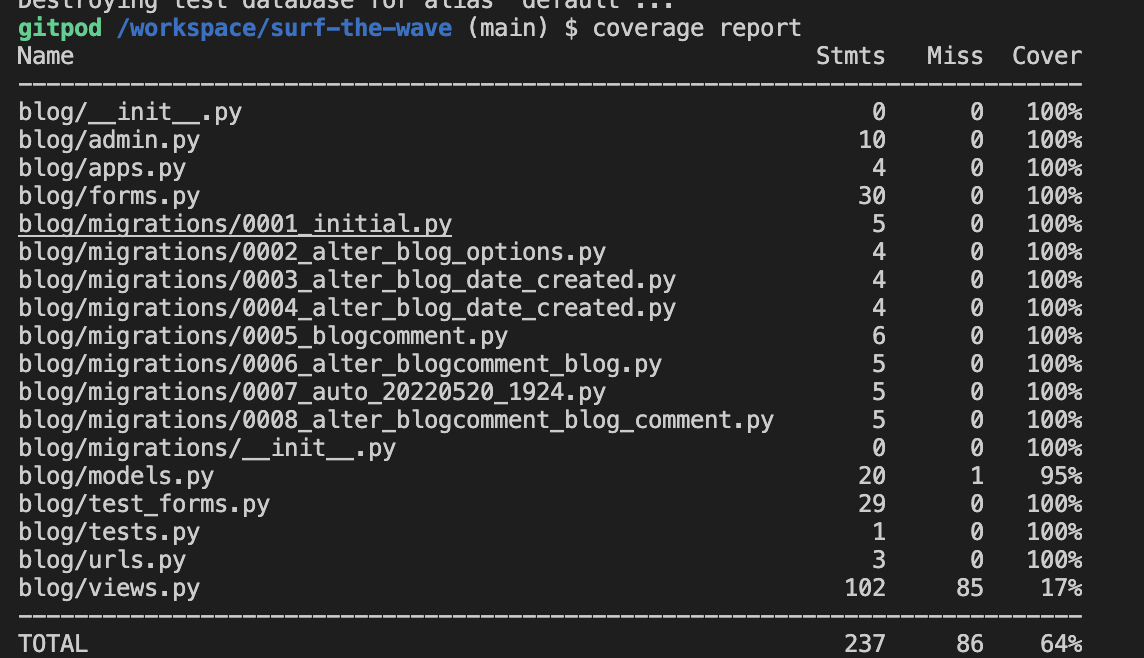
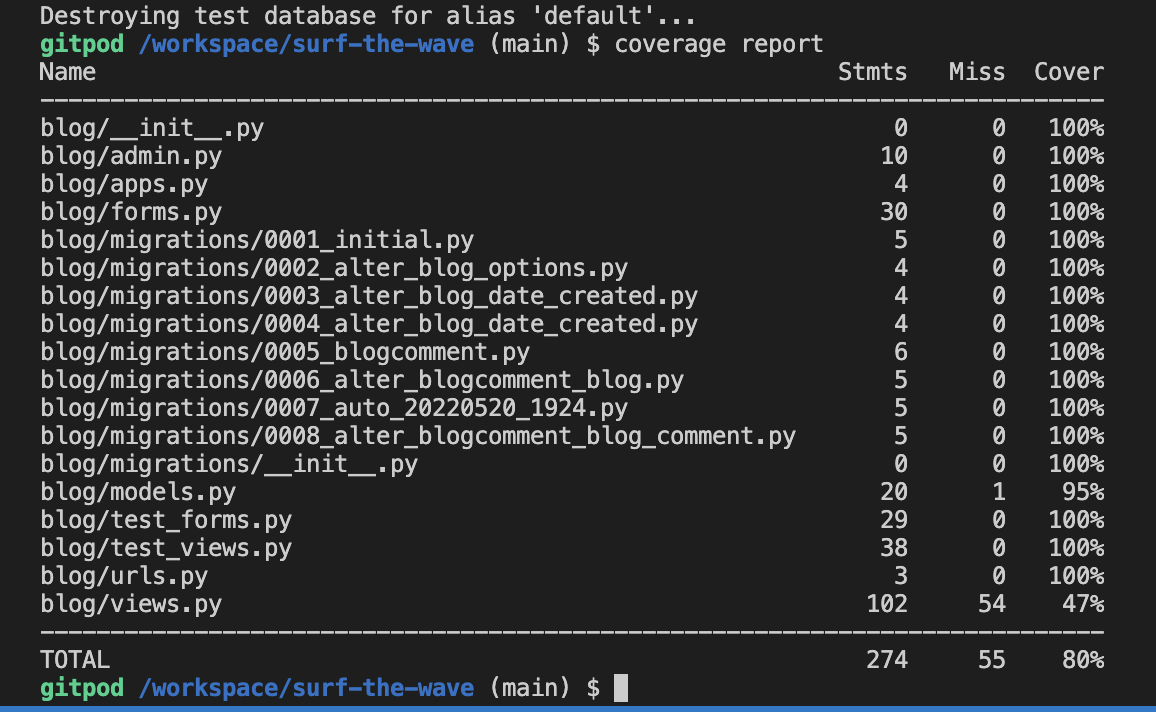
Update automated test results

Changed region(s): [[0.0, 0.0, 1.0, 1.0]]

diff --git a/TESTING.md b/TESTING.md
@@ -487,7 +487,7 @@ Automated testing is new to me so decided that I would carry out thorough and ro
 
 Overall Project Result
 
-![](readme/assets/testing-images/overall-results.png)
+![](readme/assets/testing-images/overall-test.png)
 
 - Home App
 
